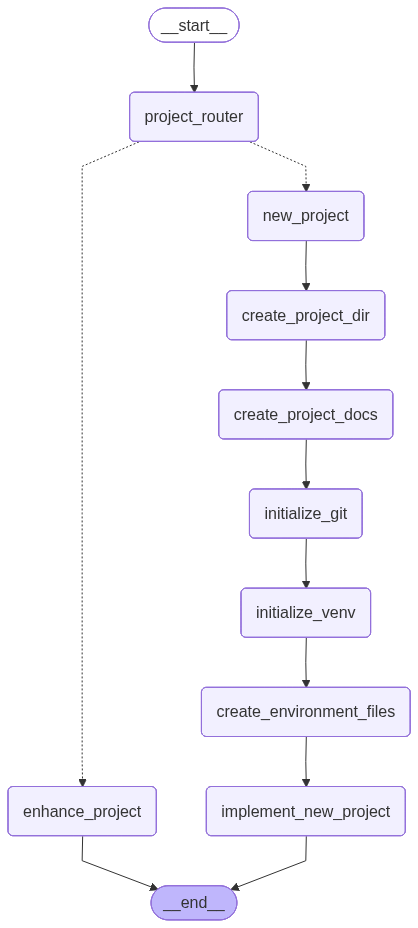
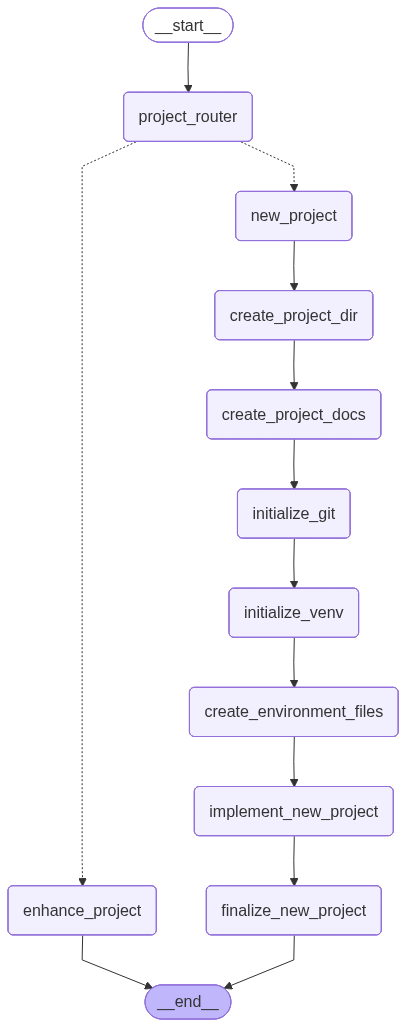
Add FinalizeNewProjectNode and update Ai_Task.md with setup summary

diff --git a/tests/test_graph_workflow.py b/tests/test_graph_workflow.py
@@ -47,6 +47,7 @@ class CodingGraphTests(unittest.TestCase):
                 "initialize_git",
                 "initialize_venv",
                 "create_environment_files",
+                "finalize_new_project",
             ],
         )
         self.assertTrue(project_dir.exists())
@@ -60,6 +61,9 @@ class CodingGraphTests(unittest.TestCase):
         self.assertTrue((project_dir / "requirements.txt").exists())
         self.assertTrue((project_dir / ".gitignore").exists())
         self.assertTrue((project_dir / "README.md").exists())
+        self.assertIn("## Graph Setup Summary", (project_dir / "Ai_Task.md").read_text(encoding="utf-8"))
+        self.assertIn("finalize_new_project", result["project_setup"])
+        self.assertEqual(len(speaker.calls), 1)
         self.assertEqual(result["response"], f"handled: {speaker.calls[0][0]}")
         self.assertIn("first task for a new project", speaker.calls[0][0])
         self.assertIn("already prepared the base project environment", speaker.calls[0][0])
@@ -73,6 +77,7 @@ class CodingGraphTests(unittest.TestCase):
         self.assertIn("Do not create extra directories", speaker.calls[0][0])
         self.assertIn("If task.md only asks to initialize the environment", speaker.calls[0][0])
         self.assertIn("Use Ai_Task.md as the AI handoff file", speaker.calls[0][0])
+        self.assertIn("Before finishing, update Ai_Task.md in this same Codex session", speaker.calls[0][0])
         self.assertIn("Use requirements.txt for Python package dependencies", speaker.calls[0][0])
         self.assertIn("Business requirement:", speaker.calls[0][0])
         self.assertIn("Build the first version", speaker.calls[0][0])
@@ -132,6 +137,7 @@ class CodingGraphTests(unittest.TestCase):
         self.assertIn("improve_project", node_names)
         self.assertIn("create_project_dir", node_names)
         self.assertIn("implement_new_project", node_names)
+        self.assertIn("finalize_new_project", node_names)
 
     def create_temp_config(self) -> str:
         temp_dir = tempfile.TemporaryDirectory()

diff --git a/graph/nodes.py b/graph/nodes.py
@@ -308,9 +308,37 @@ def build_new_project_prompt(
         "- Update README.md with concrete setup, run, and test commands.\n"
         "- Add focused tests when the stack supports tests.\n"
         "- Keep the setup practical and minimal.\n\n"
+        "Final AI handoff update:\n"
+        "- Before finishing, update Ai_Task.md in this same Codex session with a concise summary of what was done.\n"
+        "- Include the graph setup steps, any files you changed, and anything intentionally left untouched.\n\n"
         f"Business requirement:\n{business_requirement}\n\n"
         f"task.md:\n{task_md}"
     )
+
+
+@dataclass(frozen=True)
+class FinalizeNewProjectNode:
+    """Record the graph-level new-project setup summary in Ai_Task.md."""
+
+    def __call__(self, state: CodingState) -> CodingState:
+        project_dir = project_dir_from_state(state)
+        ai_task_path = project_dir / "Ai_Task.md"
+        existing = ai_task_path.read_text(encoding="utf-8") if ai_task_path.exists() else ""
+        marker = "## Graph Setup Summary"
+        if marker not in existing:
+            setup_steps = "\n".join(
+                f"- {step}" for step in [*(state.get("project_setup") or []), "finalize_new_project"]
+            )
+            summary = (
+                "\n\n"
+                f"{marker}\n\n"
+                "The new-project graph completed these setup nodes:\n\n"
+                f"{setup_steps}\n\n"
+                "The Codex implementation step was requested to update this file in the same Codex session.\n"
+            )
+            ai_task_path.write_text(existing.rstrip() + summary, encoding="utf-8")
+
+        return {"project_setup": append_setup_step(state, "finalize_new_project")}
 
 
 def write_text_if_missing(path: Path, text: str) -> None:

diff --git a/graph/workflow.py b/graph/workflow.py
@@ -16,6 +16,7 @@ from .nodes import (
     CreateProjectDirectoryNode,
     CreateProjectDocsNode,
     EnhanceProjectNode,
+    FinalizeNewProjectNode,
     ImplementNewProjectNode,
     InitializeGitNode,
     InitializeVenvNode,
@@ -33,6 +34,7 @@ DEFAULT_INITIALIZE_GIT = "initialize_git"
 DEFAULT_INITIALIZE_VENV = "initialize_venv"
 DEFAULT_CREATE_ENVIRONMENT_FILES = "create_environment_files"
 DEFAULT_IMPLEMENT_NEW_PROJECT = "implement_new_project"
+DEFAULT_FINALIZE_NEW_PROJECT = "finalize_new_project"
 DEFAULT_ENHANCE_PROJECT = "enhance_project"
 
 
@@ -76,6 +78,7 @@ def create_coding_graph(speaker: CodexSpeaker | None = None, config_path: Path |
     graph.add_node(DEFAULT_INITIALIZE_VENV, InitializeVenvNode())
     graph.add_node(DEFAULT_CREATE_ENVIRONMENT_FILES, CreateEnvironmentFilesNode())
     graph.add_node(DEFAULT_IMPLEMENT_NEW_PROJECT, ImplementNewProjectNode(codex_speaker))
+    graph.add_node(DEFAULT_FINALIZE_NEW_PROJECT, FinalizeNewProjectNode())
     graph.add_node(enhance_project, EnhanceProjectNode(codex_speaker))
     graph.set_entry_point(project_router)
     graph.add_conditional_edges(
@@ -92,7 +95,8 @@ def create_coding_graph(speaker: CodexSpeaker | None = None, config_path: Path |
     graph.add_edge(DEFAULT_INITIALIZE_GIT, DEFAULT_INITIALIZE_VENV)
     graph.add_edge(DEFAULT_INITIALIZE_VENV, DEFAULT_CREATE_ENVIRONMENT_FILES)
     graph.add_edge(DEFAULT_CREATE_ENVIRONMENT_FILES, DEFAULT_IMPLEMENT_NEW_PROJECT)
-    graph.add_edge(DEFAULT_IMPLEMENT_NEW_PROJECT, END)
+    graph.add_edge(DEFAULT_IMPLEMENT_NEW_PROJECT, DEFAULT_FINALIZE_NEW_PROJECT)
+    graph.add_edge(DEFAULT_FINALIZE_NEW_PROJECT, END)
     graph.add_edge(enhance_project, END)
     return graph.compile()
 

diff --git a/graph/__init__.py b/graph/__init__.py
@@ -9,6 +9,7 @@ from .nodes import (
     CreateProjectDirectoryNode,
     CreateProjectDocsNode,
     EnhanceProjectNode,
+    FinalizeNewProjectNode,
     ImplementNewProjectNode,
     InitializeGitNode,
     InitializeVenvNode,
@@ -27,6 +28,7 @@ __all__ = [
     "CreateProjectDirectoryNode",
     "CreateProjectDocsNode",
     "EnhanceProjectNode",
+    "FinalizeNewProjectNode",
     "ImplementNewProjectNode",
     "InitializeGitNode",
     "InitializeVenvNode",

diff --git a/README.md b/README.md
@@ -349,7 +349,46 @@ new_project
   -> initialize_venv
   -> create_environment_files
   -> implement_new_project
+  -> finalize_new_project
 ```
+
+`implement_new_project` is the only Codex call in this branch. It asks Codex
+to update `Ai_Task.md` with a concise summary before finishing. The
+`finalize_new_project` node is local; it records the graph setup summary in
+`Ai_Task.md` without starting another Codex session.
+
+All nodes before `implement_new_project` are local Python setup nodes. They do
+not talk to Codex. The new-project branch sends exactly one filled prompt to
+Codex, containing:
+
+```text
+project_name
+project_dir
+completed setup steps
+business_requirement
+task.md
+instructions to update Ai_Task.md before finishing
+```
+
+The local setup nodes create this baseline environment:
+
+```text
+task.md
+Ai_Task.md
+business requirements.md
+.git/
+.venv/
+.env
+config.yml
+requirements.txt
+.gitignore
+README.md
+```
+
+Codex is instructed not to create extra directories, packages, apps, tests, or
+project files unless `task.md` explicitly asks for them. If `task.md` only asks
+to initialize the environment, Codex should stop after verifying and updating
+the prepared files.
 
 ```python
 from graph import run_coding_graph
